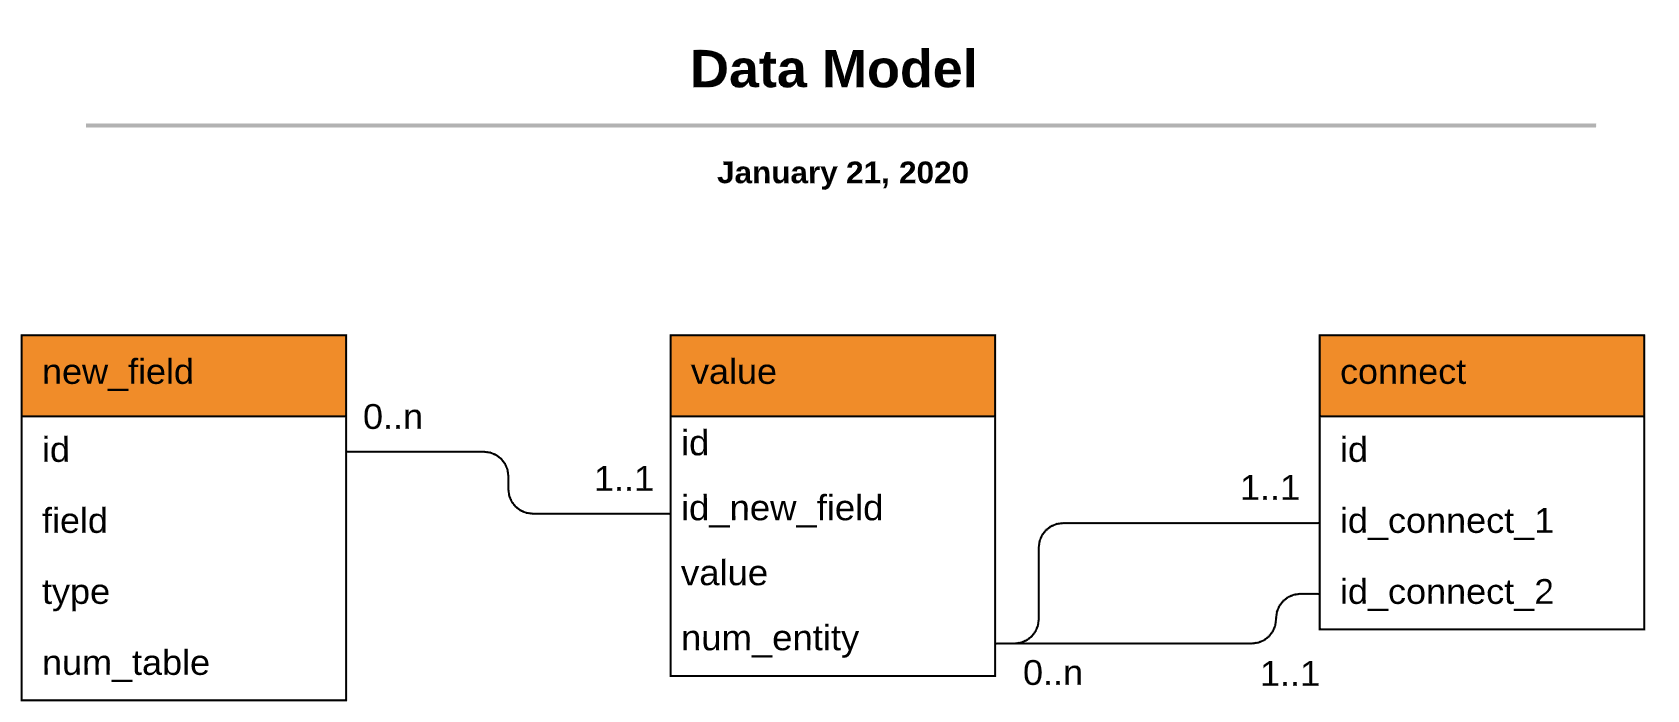
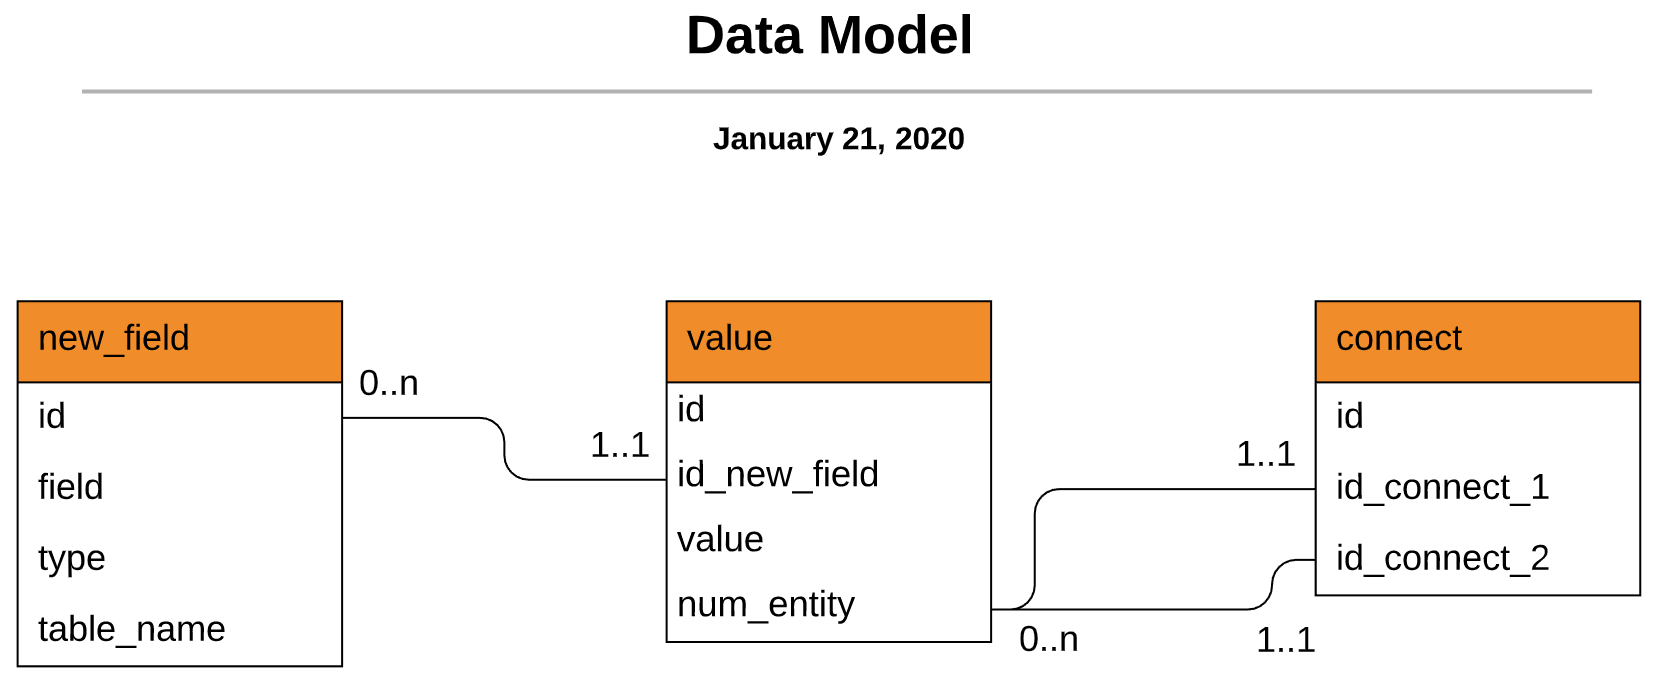
update api

diff --git a/api/routes/valueCtrl.js b/api/routes/valueCtrl.js
@@ -1,0 +1,49 @@
+// Imports
+var models = require('../models');
+
+// Routes
+module.exports = {
+
+    // Function to insert the field
+    insert: function (req, res) {
+
+        //Params
+        var id_field = req.body.id_field;
+        var value = req.body.value;
+        var entity = req.body.entity;
+
+        // Check if params are valid
+        if (id_field == null || value == null || entity == null) {
+            return res.status(400).json({ 'error': 'missing parameters' });
+        }
+
+        // Check if field already exist if not insert the data
+        models.value.findOne({
+            attributes: ['value', 'entity'],
+            where: { 
+                value: value,
+                entity: entity,
+            }
+        })
+        .then(function (valueFound) {
+            if (!valueFound) {
+                var newValue = models.value.create({
+                    id_field: id_field,
+                    value: value,
+                    entity: entity
+                })
+                .then(function (newValue) {
+                    return res.status(201).json({ 'new_value_id': newValue.id })
+                })
+                .catch(function (err) {
+                    return res.status(500).json({ 'error': 'cannot add newValue' })
+                })
+            } else {
+                return res.status(409).json({ 'error': 'value already exist' })
+            }
+        })
+        .catch(function (err) {
+            return res.status(500).json({ 'error': 'unable to verify value' })
+        });
+    }
+}

diff --git a/api/routes/newFieldCtrl.js b/api/routes/newFieldCtrl.js
@@ -1,0 +1,46 @@
+// Imports
+var models = require('../models');
+
+// Routes
+module.exports = {
+
+    // Function to insert the field
+    insert: function (req,res) {
+        
+        //Params
+        var field      = req.body.field;
+        var type       = req.body.type;
+        var table_name = req.body.table_name;
+
+        // Check if params are valid
+        if(field == null || type == null || table_name == null){
+            return res.status(400).json({'error': 'missing parameters'});
+        }
+
+        // Check if field already exist if not insert the data
+        models.field.findOne({
+            attributes: ['field'],
+            where: {field: field}
+        })
+        .then(function(fieldFound) {
+            if(!fieldFound){
+                var newField = models.field.create({
+                    field: field,
+                    type: type,
+                    table_name: table_name
+                })
+                .then(function (newField) {
+                    return res.status(201).json({'field_id': newField.id})
+                })
+                .catch(function (err) {
+                    return res.status(500).json({'error': 'cannot add field'})
+                })
+            } else {
+                return res.status(409).json({'error': 'field already exist'})
+            }
+        })
+        .catch(function (err) {
+            return res.status(500).json({'error': 'unable to verify field'})
+        });
+    }
+}

diff --git a/api/migrations/20200121121633-create-value.js b/api/migrations/20200121121633-create-value.js
@@ -8,11 +8,11 @@ module.exports = {
         primaryKey: true,
         type: Sequelize.INTEGER
       },
-      id_new_field: {
+      id_field: {
         allowNull: false,
         type: Sequelize.INTEGER,
         references: {
-          model: 'new_fields',
+          model: 'fields',
           key: 'id'
         }
       },
@@ -20,10 +20,9 @@ module.exports = {
         allowNull: true,
         type: Sequelize.STRING
       },
-      num_entity: {
+      entity: {
         allowNull: false,
-        unique:true,
-        type: Sequelize.INTEGER
+        type: Sequelize.INTEGER,
       },
       createdAt: {
         allowNull: false,
@@ -33,9 +32,10 @@ module.exports = {
         allowNull: false,
         type: Sequelize.DATE
       }
-    });
+    })
+    .then(() => queryInterface.addIndex('values', ['entity']))
   },
   down: (queryInterface, Sequelize) => {
     return queryInterface.dropTable('values');
-  }
+  },
 };

diff --git a/api/server.js b/api/server.js
@@ -1,8 +1,14 @@
 // Imports
-var express = require('express');
+var express    = require('express');
+var bodyParser = require('body-parser');
+var apiRouter  = require('./apiRouter').router;
 
 // Instanciate server
 var server = express();
+
+// Body Parser configuration
+server.use(bodyParser.urlencoded({extended: true}));
+server.use(bodyParser.json());
 
 // Configure routes
 server.get('/', function (req,res) {
@@ -10,7 +16,9 @@ server.get('/', function (req,res) {
     res.status(200).send('<h1>Hello World !</h1>')
 });
 
+server.use('/api/', apiRouter);
+
 // Launch server
 server.listen(8181, function () {
-    console.log('Server listen on port 8181 !');
+    console.log('🚀 Server listen on port 8181 !');
 });

diff --git a/api/migrations/20200121121523-create-field.js b/api/migrations/20200121121523-create-field.js
@@ -1,7 +1,7 @@
 'use strict';
 module.exports = {
   up: (queryInterface, Sequelize) => {
-    return queryInterface.createTable('new_fields', {
+    return queryInterface.createTable('fields', {
       id: {
         allowNull: false,
         autoIncrement: true,
@@ -16,7 +16,7 @@ module.exports = {
         allowNull: false,
         type: Sequelize.STRING
       },
-      nom_table: {
+      table_name: {
         allowNull: false,
         type: Sequelize.STRING
       },
@@ -31,6 +31,6 @@ module.exports = {
     });
   },
   down: (queryInterface, Sequelize) => {
-    return queryInterface.dropTable('new_fields');
+    return queryInterface.dropTable('fields');
   }
 };

diff --git a/api/migrations/20200121121724-create-connect.js b/api/migrations/20200121121724-create-connect.js
@@ -8,18 +8,25 @@ module.exports = {
         primaryKey: true,
         type: Sequelize.INTEGER
       },
-      id_connect_1: {
+      customer: {
         type: Sequelize.INTEGER,
         references: {
           model: 'values',
-          key: 'num_entity'
+          key: 'entity'
         }
       },
-      id_connect_2: {
+      product: {
         type: Sequelize.INTEGER,
         references: {
           model: 'values',
-          key: 'num_entity'
+          key: 'entity'
+        }
+      },
+      bill: {
+        type: Sequelize.INTEGER,
+        references: {
+          model: 'values',
+          key: 'entity'
         }
       },
       createdAt: {

diff --git a/api/models/value.js b/api/models/value.js
@@ -1,13 +1,13 @@
 'use strict';
 module.exports = (sequelize, DataTypes) => {
   const value = sequelize.define('value', {
-    id_new_field: DataTypes.INTEGER,
+    id_field: DataTypes.INTEGER,
     value: DataTypes.STRING,
-    num_entity: DataTypes.INTEGER
+    entity: DataTypes.INTEGER
   }, {});
   value.associate = function(models) {
     // associations can be defined here
-    models.value.hasMany(models.new_field);
+    models.value.hasMany(models.field);
   };
   return value;
 };

diff --git a/api/models/field.js b/api/models/field.js
@@ -1,13 +1,12 @@
 'use strict';
 module.exports = (sequelize, DataTypes) => {
-  const new_field = sequelize.define('new_field', {
+  const field = sequelize.define('field', {
     field: DataTypes.STRING,
     type: DataTypes.STRING,
-    nom_table: DataTypes.STRING
+    table_name: DataTypes.STRING
   }, {});
-  new_field.associate = function(models) {
+  field.associate = function(models) {
     // associations can be defined here
-
   };
-  return new_field;
+  return field;
 };

diff --git a/api/apiRouter.js b/api/apiRouter.js
@@ -1,0 +1,18 @@
+// Imports
+var express      = require('express');
+var newFieldCtrl = require('./routes/newFieldCtrl');
+var valueCtrl = require('./routes/valueCtrl');
+
+// Router
+exports.router = (function() {
+    var apiRouter = express.Router();
+
+    // newField routes
+    apiRouter.route('/newField/insert/').post(newFieldCtrl.insert);
+
+    // valueCtrl routes
+    apiRouter.route('/value/insert/').post(valueCtrl.insert);
+
+    return apiRouter;
+
+})();

diff --git a/api/models/connect.js b/api/models/connect.js
@@ -1,13 +1,13 @@
 'use strict';
 module.exports = (sequelize, DataTypes) => {
   const connect = sequelize.define('connect', {
-    id_connect_1: DataTypes.INTEGER,
-    id_connect_2: DataTypes.INTEGER
+    customer: DataTypes.INTEGER,
+    product: DataTypes.INTEGER,
+    bill: DataTypes.INTEGER
   }, {});
   connect.associate = function(models) {
     // associations can be defined here
     models.connect.hasMany(models.value);
-
   };
   return connect;
 };

diff --git a/README.md b/README.md
@@ -106,9 +106,9 @@ ynov-projet/
 - Create the models with the cli
 
       sequelize model:create --attributes "field:string type:string table_name:
-      string" --name new_field
+      string" --name field
 
-      sequelize model:create --attributes "id_new_field:integer value:string n
+      sequelize model:create --attributes "id_field:integer value:string n
       um_entity:integer" --name value
 
       sequelize model:create --attributes "id_connect_1:integer id_connect_2:i
